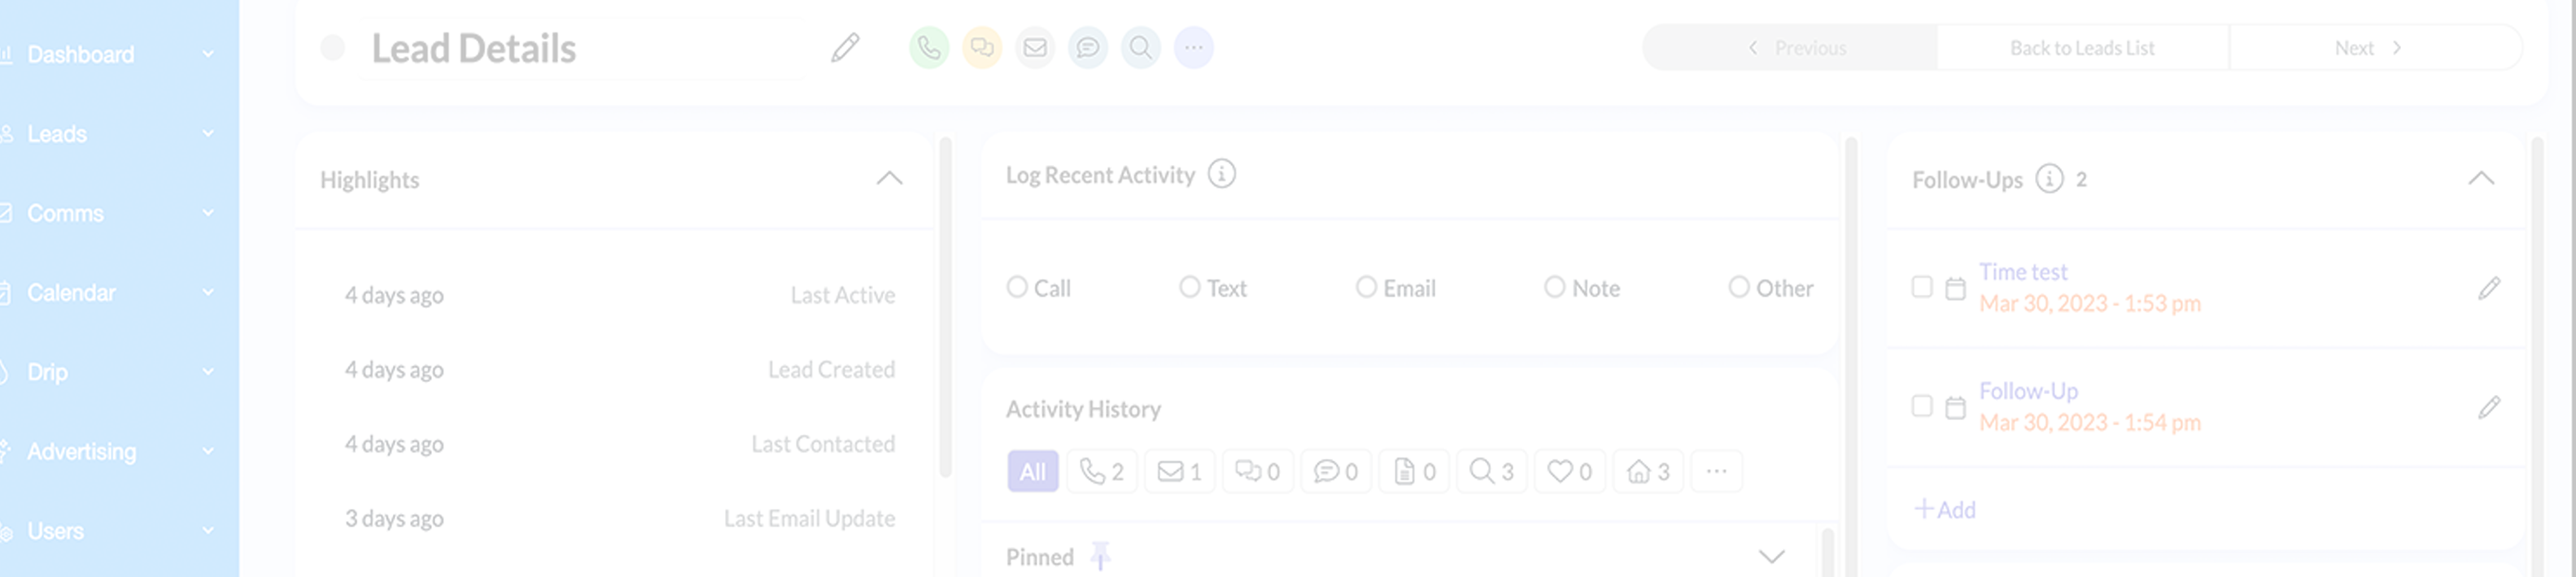
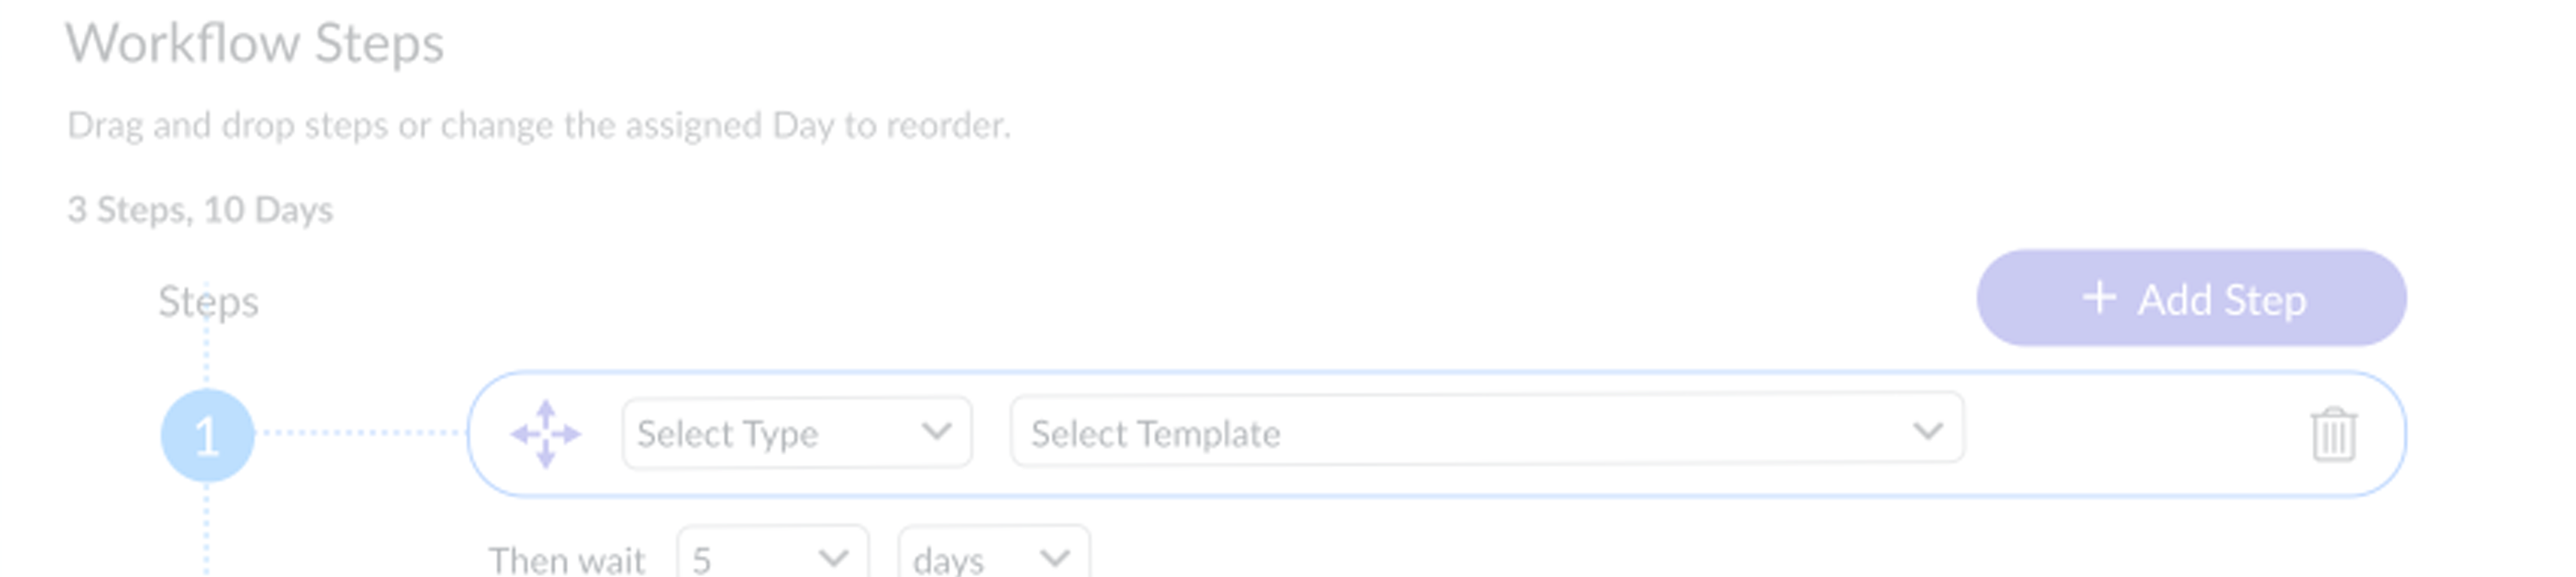
rg stuff
added

diff --git a/portfolio.html b/portfolio.html
@@ -86,11 +86,16 @@
                        <div class="u-max-full-width bg"><h8>Masergy (Comcast Design)- Request to View</h8><br>
                        <h9>Enterprise Application Design, UX Design, User Research +</h9></div></div>
             </div></a><br>
-        <a href="mailto:haleyguilfoile@gmail.com?Subject=Request%20to%20view%20RealGeeks%20Design%20Work" target="_top"><div class="case-realgeeks">
+        <a href="/realgeeks-drip.html" target="_top"><div class="case-realgeeks">
                    <div class="centered"><br><br>
-                       <div class="u-max-full-width bg"><h8>RealGeeks- Request to View</h8><br>
+                       <div class="u-max-full-width bg"><h8>RealGeeks- "Drip" Lead Engagement</h8><br>
                        <h9>Enterprise Application Design, UX Design, User Research +</h9></div></div>
             </div></a><br>
+            <a href="/realgeeks-webeditor.html" target="_top"><div class="case-realgeeks2">
+                <div class="centered"><br><br>
+                    <div class="u-max-full-width bg"><h8>RealGeeks- Website Editor 2.0</h8><br>
+                    <h9>Enterprise Application Design, UX Design, User Research +</h9></div></div>
+         </div></a><br>
          <a href="/capitalone.html"><div class="case-capitalone">
                    <div class="centered"><br><br>
                        <div class="u-max-full-width bg"><h8>Capital One - VOLT</h8><br>

diff --git a/css/style.css b/css/style.css
@@ -290,6 +290,12 @@ background-image: url("../images/casestudycircle-realgeeks.png");
     background-size: cover;
     background-repeat: no-repeat;
 }
+.case-realgeeks2 {
+    background-image: url("../images/casestudycircle-realgeeks-editor.png");
+        height: 160px;
+        background-size: cover;
+        background-repeat: no-repeat;
+    }
 
 .case-masergy {
 background-image: url("../images/casestudycircle-masergy.png");
